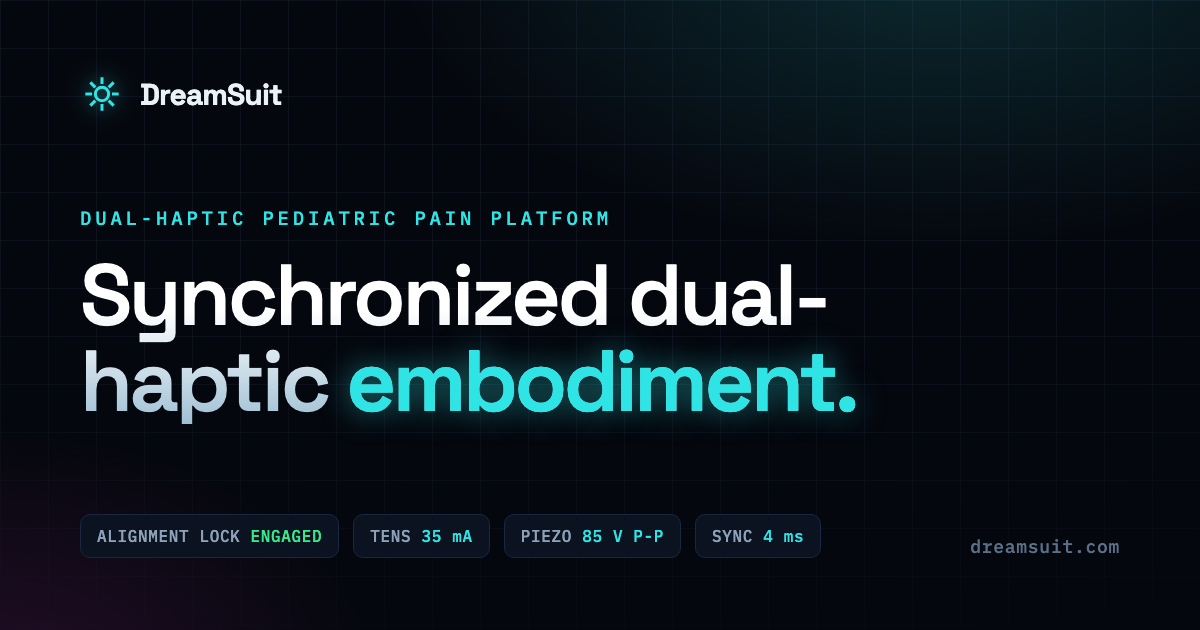
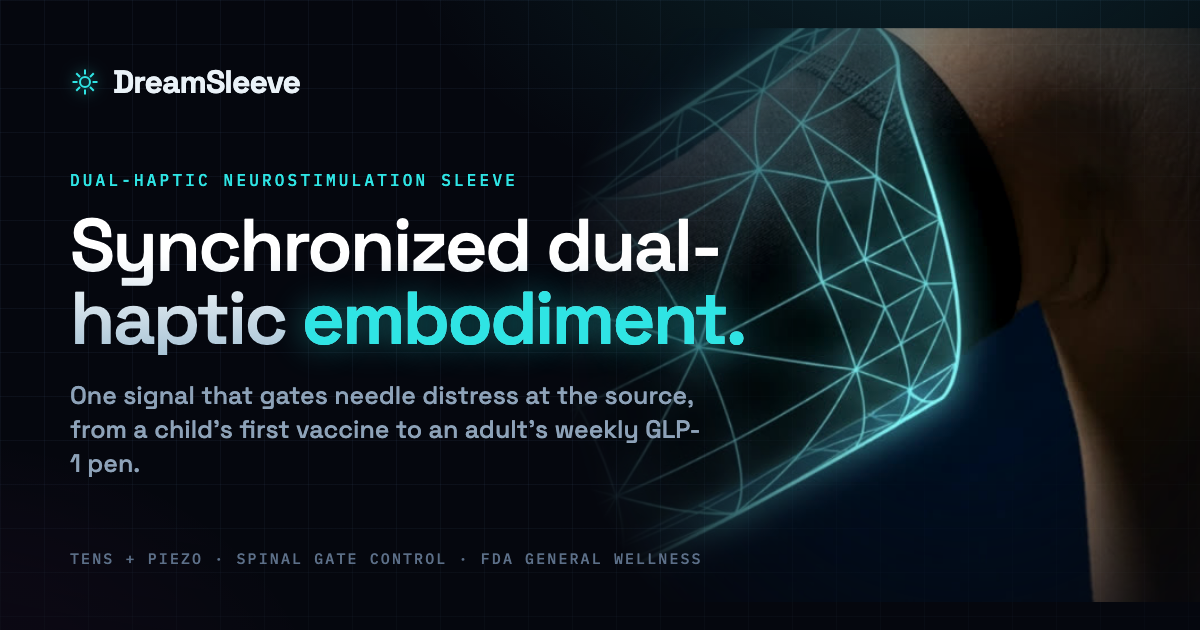
Site improvements: real stats, team section, fresh OG image, a11y + perf (#11)
- Market stats: real sourced dual-audience figures (16B injections/yr WHO; 1 in 10
  adults on GLP-1 CDC 2025; 1 in 4 young adults fear needles 2019 meta-analysis) with
  inline source tags, replacing placeholders.
- New Team section (#team) scaffolded with INFO NEEDED; linked in footer nav.
- Regenerated OG share image (1200x630) to match the photographic hero; updated alt text.
- Accessibility (from audit): --faint -> #7587a0 (WCAG AA for small text incl. legal),
  decorative lock emoji aria-hidden, skip link -> #top, visually-hidden mission <h2> + .sr-only.
- Perf: schematic PNG -> WebP (70KB, -96%) via <picture> + PNG fallback.
Verified: JSON-LD valid, tags balanced, 0 em dashes, no overflow 390/1440, WebP served.

diff --git a/index.html b/index.html
@@ -24,14 +24,14 @@
   <meta property="og:image" content="https://dreamsleeve.com/assets/og-image.png" />
   <meta property="og:image:width" content="1200" />
   <meta property="og:image:height" content="630" />
-  <meta property="og:image:alt" content="DreamSleeve: a telemetry console reading ALIGNMENT LOCK ENGAGED across four haptic circuits, over the words Synchronized Dual-Haptic Embodiment." />
+  <meta property="og:image:alt" content="DreamSleeve: a glowing cyan wireframe sleeve on an arm, beside the words Synchronized dual-haptic embodiment." />
 
   <!-- ==== TWITTER ==== -->
   <meta name="twitter:card" content="summary_large_image" />
   <meta name="twitter:title" content="DreamSleeve: Synchronized Dual-Haptic Embodiment" />
   <meta name="twitter:description" content="An arm-worn sleeve that fuses TENS + piezo into one signal to gate needle distress, for kids' vaccines and adult GLP-1 / insulin self-injections alike." />
   <meta name="twitter:image" content="https://dreamsleeve.com/assets/og-image.png" />
-  <meta name="twitter:image:alt" content="DreamSleeve dual-haptic telemetry console." />
+  <meta name="twitter:image:alt" content="DreamSleeve: a glowing wireframe sleeve on an arm, dual-haptic neurostimulation." />
 
   <!-- ==== ICONS / MANIFEST ==== -->
   <link rel="icon" href="assets/favicon.svg" type="image/svg+xml" />
@@ -73,7 +73,7 @@
 </head>
 
 <body>
-  <a class="skip-link" href="#problem">Skip to content</a>
+  <a class="skip-link" href="#top">Skip to content</a>
 
   <!-- Engineering grid + scroll progress rail -->
   <div class="grid-canvas" aria-hidden="true"></div>
@@ -227,8 +227,11 @@
       </div>
 
       <figure class="schematic" data-reveal>
-        <img src="assets/schematic.png" width="1600" height="855" loading="lazy" decoding="async"
-          alt="DreamSleeve wearable haptic sleeve engineering schematic: anterior and posterior arm views showing Circuit 11 (Biceps/Deltoid Gateway), Circuit 12 (Triceps brachii), Circuit 13 (Posterior Forearm Extensors) and Circuit 14 (Anterior Forearm Flexors) as triangular piezo actuator arrays, anatomical landmark pins, and a multi-layer ceramic piezoelectric actuator cross-section." />
+        <picture>
+          <source srcset="assets/schematic.webp" type="image/webp" />
+          <img src="assets/schematic.png" width="1600" height="855" loading="lazy" decoding="async"
+            alt="DreamSleeve wearable haptic sleeve engineering schematic: anterior and posterior arm views showing Circuit 11 (Biceps/Deltoid Gateway), Circuit 12 (Triceps brachii), Circuit 13 (Posterior Forearm Extensors) and Circuit 14 (Anterior Forearm Flexors) as triangular piezo actuator arrays, anatomical landmark pins, and a multi-layer ceramic piezoelectric actuator cross-section." />
+        </picture>
         <figcaption>
           <span class="schematic__tag">Fig. 01 · Anterior / posterior engineering schematic</span>
           Four circuits on a transparent ergonomic fabric substrate, mapped to anatomical
@@ -389,7 +392,7 @@
                   <div><dt>Z_IMPEDANCE</dt><dd>810 Ω <i class="pass">Pass</i></dd></div>
                   <div><dt>ALIGNMENT LOCK</dt><dd class="pass">ENGAGED</dd></div>
                 </dl>
-                <span class="circuit__lock" aria-label="Lock engaged">🔒</span>
+                <span class="circuit__lock" aria-hidden="true">🔒</span>
               </article>
               <article class="circuit" data-circuit>
                 <header><b>Circuit 12</b><span>Triceps Brachii</span></header>
@@ -397,7 +400,7 @@
                   <div><dt>Z_IMPEDANCE</dt><dd>940 Ω <i class="pass">Pass</i></dd></div>
                   <div><dt>ALIGNMENT LOCK</dt><dd class="pass">ENGAGED</dd></div>
                 </dl>
-                <span class="circuit__lock" aria-label="Lock engaged">🔒</span>
+                <span class="circuit__lock" aria-hidden="true">🔒</span>
               </article>
               <article class="circuit" data-circuit>
                 <header><b>Circuit 13</b><span>Posterior Forearm Extensors</span></header>
@@ -405,7 +408,7 @@
                   <div><dt>Z_IMPEDANCE</dt><dd>620 Ω <i class="pass">Pass</i></dd></div>
                   <div><dt>ALIGNMENT LOCK</dt><dd class="pass">ENGAGED</dd></div>
                 </dl>
-                <span class="circuit__lock" aria-label="Lock engaged">🔒</span>
+                <span class="circuit__lock" aria-hidden="true">🔒</span>
               </article>
               <article class="circuit" data-circuit>
                 <header><b>Circuit 14</b><span>Anterior Forearm Flexors</span></header>
@@ -413,7 +416,7 @@
                   <div><dt>Z_IMPEDANCE</dt><dd>715 Ω <i class="pass">Pass</i></dd></div>
                   <div><dt>ALIGNMENT LOCK</dt><dd class="pass">ENGAGED</dd></div>
                 </dl>
-                <span class="circuit__lock" aria-label="Lock engaged">🔒</span>
+                <span class="circuit__lock" aria-hidden="true">🔒</span>
               </article>
             </div>
           </div>
@@ -457,6 +460,7 @@
 
     <!-- ==== MISSION (sticky cinematic sequence) ==== -->
     <section class="mission" id="mission" aria-label="The DreamSleeve mission flow">
+      <h2 class="sr-only">The DreamSleeve mission flow</h2>
       <div class="mission__sticky">
         <div class="mission__stageboard">
           <p class="mission__eyebrow">The session, as the child plays it</p>
@@ -620,16 +624,16 @@
 
       <div class="stats" data-reveal>
         <div class="stat">
-          <span class="stat__num" data-count="2.0" data-suffix="B+">0</span>
-          <span class="stat__label">Pediatric needle procedures / yr <mark>INFO NEEDED</mark></span>
+          <span class="stat__num" data-count="16" data-suffix="B">0</span>
+          <span class="stat__label">Injections given worldwide / yr <i>WHO</i></span>
         </div>
         <div class="stat">
-          <span class="stat__num" data-count="63" data-suffix="%">0</span>
-          <span class="stat__label">Of children report needle fear <mark>INFO NEEDED</mark></span>
+          <span class="stat__num">1 in 10</span>
+          <span class="stat__label">US adults now use a GLP-1 <i>CDC, 2025</i></span>
         </div>
         <div class="stat">
-          <span class="stat__num" data-count="4" data-prefix="$" data-suffix="B">0</span>
-          <span class="stat__label">Serviceable market <mark>INFO NEEDED</mark></span>
+          <span class="stat__num">1 in 4</span>
+          <span class="stat__label">Young adults fear needles <i>meta-analysis, 2019</i></span>
         </div>
         <div class="stat">
           <span class="stat__num" data-count="4" data-suffix=" ms">0</span>
@@ -713,6 +717,46 @@
       </ol>
     </section>
 
+    <!-- ==== TEAM ==== -->
+    <section class="section team" id="team">
+      <div class="section__head">
+        <h2 class="section__title" data-reveal>Who's building this</h2>
+        <p class="section__intro" data-reveal>
+          The people behind DreamSleeve, plus the clinical and regulatory advisors backing the work.
+          <mark>INFO NEEDED</mark>
+        </p>
+      </div>
+
+      <div class="team-grid">
+        <article class="member" data-reveal>
+          <div class="member__avatar" aria-hidden="true"></div>
+          <h3 class="member__name">Founder name <mark>INFO NEEDED</mark></h3>
+          <p class="member__role">Role / title <mark>INFO NEEDED</mark></p>
+          <p class="member__bio">One or two lines: prior company, relevant expertise, and why
+            this problem. <mark>INFO NEEDED</mark></p>
+        </article>
+        <article class="member" data-reveal>
+          <div class="member__avatar" aria-hidden="true"></div>
+          <h3 class="member__name">Co-founder name <mark>INFO NEEDED</mark></h3>
+          <p class="member__role">Role / title <mark>INFO NEEDED</mark></p>
+          <p class="member__bio">Background in haptics / neurostimulation / clinical engineering.
+            <mark>INFO NEEDED</mark></p>
+        </article>
+        <article class="member" data-reveal>
+          <div class="member__avatar" aria-hidden="true"></div>
+          <h3 class="member__name">Team member name <mark>INFO NEEDED</mark></h3>
+          <p class="member__role">Role / title <mark>INFO NEEDED</mark></p>
+          <p class="member__bio">Clinical, product, or go-to-market lead. <mark>INFO NEEDED</mark></p>
+        </article>
+      </div>
+
+      <div class="team-advisors" data-reveal>
+        <span class="team-advisors__cap">Clinical &amp; advisory</span>
+        <p>Advisory board, clinical site partners, and regulatory counsel supporting the General
+          Wellness launch and the Class II pathway. <mark>INFO NEEDED</mark></p>
+      </div>
+    </section>
+
     <!-- ==== ASK / CTA ==== -->
     <section class="section ask" id="ask">
       <div class="ask__card" data-reveal>
@@ -751,6 +795,7 @@
         <a href="#game">Game</a>
         <a href="#market">Market</a>
         <a href="#pathway">Pathway</a>
+        <a href="#team">Team</a>
         <a href="#ask">Investor deck</a>
       </nav>
     </div>

diff --git a/styles/main.css b/styles/main.css
@@ -18,7 +18,7 @@
   --amber: #F5C542;
   --text: #EAF2F8;
   --muted: #8DA2B8;
-  --faint: #5c6f88;
+  --faint: #7587a0;
   --grid: rgba(90, 130, 170, 0.08);
 
   /* type */
@@ -74,6 +74,9 @@ mark {
   font-weight: 600; transition: top .2s;
 }
 .skip-link:focus { top: 12px; }
+
+.sr-only { position: absolute; width: 1px; height: 1px; padding: 0; margin: -1px; overflow: hidden;
+  clip: rect(0 0 0 0); clip-path: inset(50%); white-space: nowrap; border: 0; }
 
 :focus-visible { outline: 2px solid var(--signal); outline-offset: 3px; border-radius: 4px; }
 
@@ -375,6 +378,8 @@ mark {
 .stat { background: var(--panel); padding: 30px 24px; }
 .stat__num { display: block; font-family: var(--display); font-size: clamp(2rem, 5vw, 2.8rem); font-weight: 600; color: var(--text); letter-spacing: -.03em; }
 .stat__label { display: block; margin-top: 10px; color: var(--muted); font-size: var(--t-sm); line-height: 1.4; }
+.stat__label i { display: block; margin-top: 5px; font-style: normal; font-family: var(--mono);
+  font-size: .6rem; letter-spacing: .08em; text-transform: uppercase; color: var(--faint); }
 
 /* ---------- traction timeline ---------- */
 .timeline { list-style: none; margin: 0; padding: 0; position: relative; max-width: 720px; }
@@ -387,6 +392,20 @@ mark {
 @keyframes pulse { 0%,100%{box-shadow:0 0 16px var(--pulse);} 50%{box-shadow:0 0 28px var(--pulse);} }
 .timeline h3 { font-size: var(--t-md); font-weight: 600; margin-bottom: 6px; }
 .timeline p { color: var(--muted); font-size: var(--t-sm); }
+
+/* ---------- team ---------- */
+.team-grid { display: grid; grid-template-columns: repeat(3, 1fr); gap: 22px; }
+.member { padding: 30px 28px; border: 1px solid var(--line); border-radius: 16px;
+  background: linear-gradient(180deg, var(--panel), var(--void-2)); }
+.member__avatar { width: 64px; height: 64px; border-radius: 50%; margin-bottom: 18px;
+  background: radial-gradient(120% 120% at 30% 20%, rgba(47,228,228,.28), transparent 60%), var(--panel-2);
+  border: 1px solid var(--signal-dim); box-shadow: inset 0 0 22px -10px var(--signal); }
+.member__name { font-size: var(--t-md); font-weight: 600; }
+.member__role { margin-top: 5px; font-family: var(--mono); font-size: .68rem; letter-spacing: .06em; text-transform: uppercase; color: var(--signal); }
+.member__bio { margin-top: 14px; color: var(--muted); font-size: var(--t-sm); }
+.team-advisors { margin-top: 30px; border: 1px solid var(--line); border-radius: 14px; padding: 22px 24px; background: var(--panel); }
+.team-advisors__cap { font-family: var(--mono); font-size: .62rem; letter-spacing: .12em; text-transform: uppercase; color: var(--faint); }
+.team-advisors p { margin-top: 8px; color: var(--muted); font-size: var(--t-sm); max-width: 72ch; }
 
 /* ---------- ask ---------- */
 .ask { max-width: 1000px; }
@@ -478,7 +497,7 @@ mark {
   .hero__photo { width: 128%; right: -34%; top: 42%; opacity: .4; }
   .trap-grid, .pillars, .moat { grid-template-columns: 1fr; }
   .game__deck, .game-tiles, .loop__steps, .phases { grid-template-columns: 1fr; }
-  .schematic-detail { grid-template-columns: 1fr; }
+  .schematic-detail, .team-grid { grid-template-columns: 1fr; }
   .stats { grid-template-columns: 1fr 1fr; }
   .console__body { grid-template-columns: 1fr; }
   .mission { height: auto; }

diff --git a/CHANGELOG.md b/CHANGELOG.md
@@ -6,6 +6,24 @@ Dates are absolute (YYYY-MM-DD).
 
 ## [Unreleased]
 
+### 2026-11-26 — Step 20: Site improvements (stats, team, OG image, accessibility, perf)
+- **Market stats → real, sourced, dual-audience figures.** Replaced the placeholder stats with:
+  16B injections given worldwide/yr (WHO); 1 in 10 US adults now use a GLP-1 (CDC, 2025); 1 in 4
+  young adults fear needles (2019 meta-analysis); plus the 4 ms sync budget. Each carries an
+  inline source tag. (No reliable public "needle-anxiety device" market figure exists, so TAM is
+  left for a bottom-up build.)
+- **New Team section (`#team`)** — "Who's building this": founder/advisor cards scaffolded with
+  `INFO NEEDED` for names, roles, bios, plus a clinical & advisory block. Linked in the footer nav.
+- **Fresh social share image** — regenerated `assets/og-image.png` (1200×630) to match the current
+  photographic hero (was the old telemetry-console render); updated OG/Twitter image alt text.
+- **Accessibility (from an audit):** bumped `--faint` #5c6f88 → #7587a0 so small text (legal
+  disclaimer, telemetry labels) passes WCAG AA; decorative lock emoji now `aria-hidden`; skip link
+  targets `#top`; added a visually-hidden `<h2>` for the Mission section (+ an `.sr-only` utility).
+- **Performance:** converted the 1.59 MB schematic PNG to **WebP (70 KB, −96%)** served via
+  `<picture>` with a PNG fallback.
+- Verified: JSON-LD valid, tags balanced, 0 em dashes, no horizontal overflow at 390/1440,
+  browser loads the WebP, count-ups reach their targets.
+
 ### 2026-11-26 — Step 19: Placeholder markers relabeled "INFO NEEDED"
 - Replaced every on-site `[placeholder]` marker (and the one `[placeholder address]`) with
   **INFO NEEDED** so the gaps are unmistakable before launch: the three market stats, four

diff --git a/README.md b/README.md
@@ -48,10 +48,12 @@ Search the repo for these and replace with real values:
   JSON-LD), `CNAME`, `robots.txt`, `sitemap.xml`, `site.webmanifest`.
 - **Email** `invest@dreamsleeve.com` / `hello@dreamsleeve.com` in `index.html` (the two CTAs
   and the contact line). Or point the primary CTA at a deck link / data-room URL.
-- **`INFO NEEDED` figures** — market size, needle-fear %, traction milestones, leaderboard
-  score, deck-request email. Each is tagged with a magenta `INFO NEEDED` mark in the UI;
-  search `index.html` for `INFO NEEDED` to find them all. (The `[titles illustrative]` and
-  `[status: pre-submission]` tags are clarifiers, not missing data.)
+- **`INFO NEEDED` fields** — the **Team** section (founder/advisor names, roles, bios), the
+  traction milestones, the leaderboard season score, and the deck-request email. Each is
+  tagged with a magenta `INFO NEEDED` mark; search `index.html` for `INFO NEEDED` to find
+  them all. (The `[titles illustrative]` and `[status: pre-submission]` tags are clarifiers,
+  not missing data.) The Market stats are now real, sourced figures — see the `<i>` source
+  tags (WHO / CDC 2025 / 2019 meta-analysis); swap in your own bottom-up TAM if preferred.
 - **Deck delivery** — the primary CTA is a `mailto:`. Swap for Docsend/Notion/data-room
   link, or wire a form service (Formspree etc.) if you want on-site capture.
 
